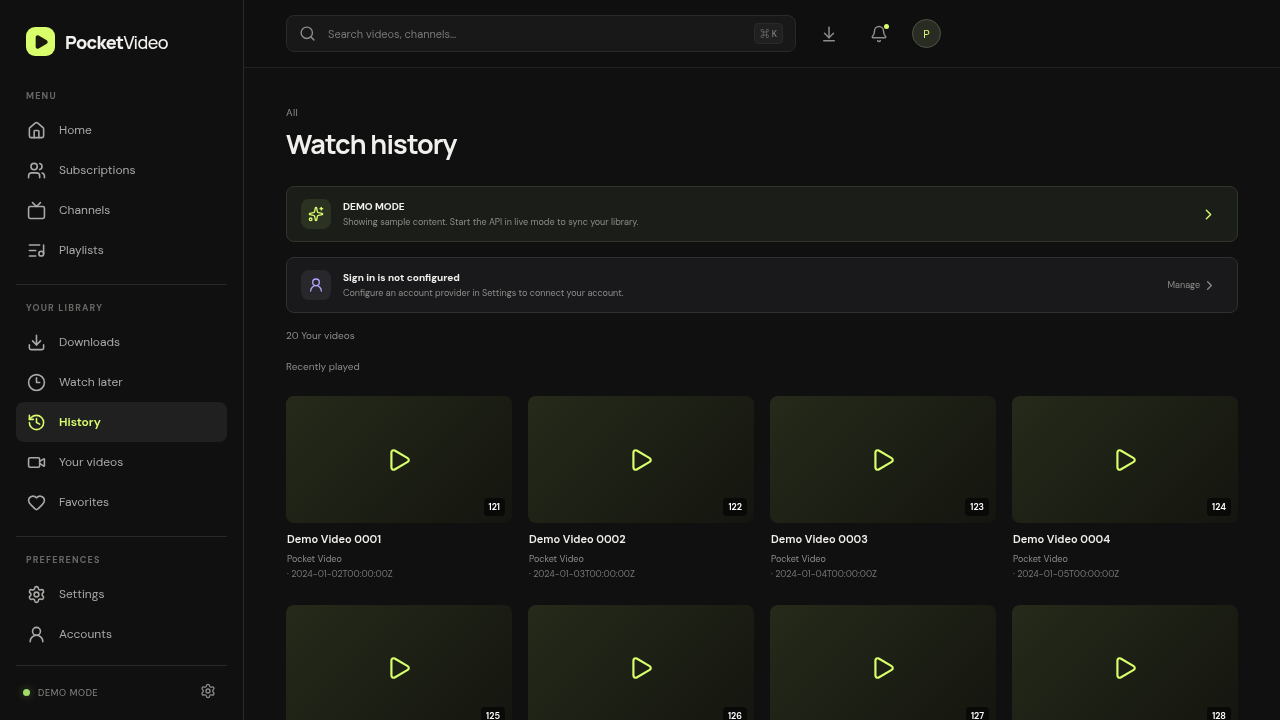
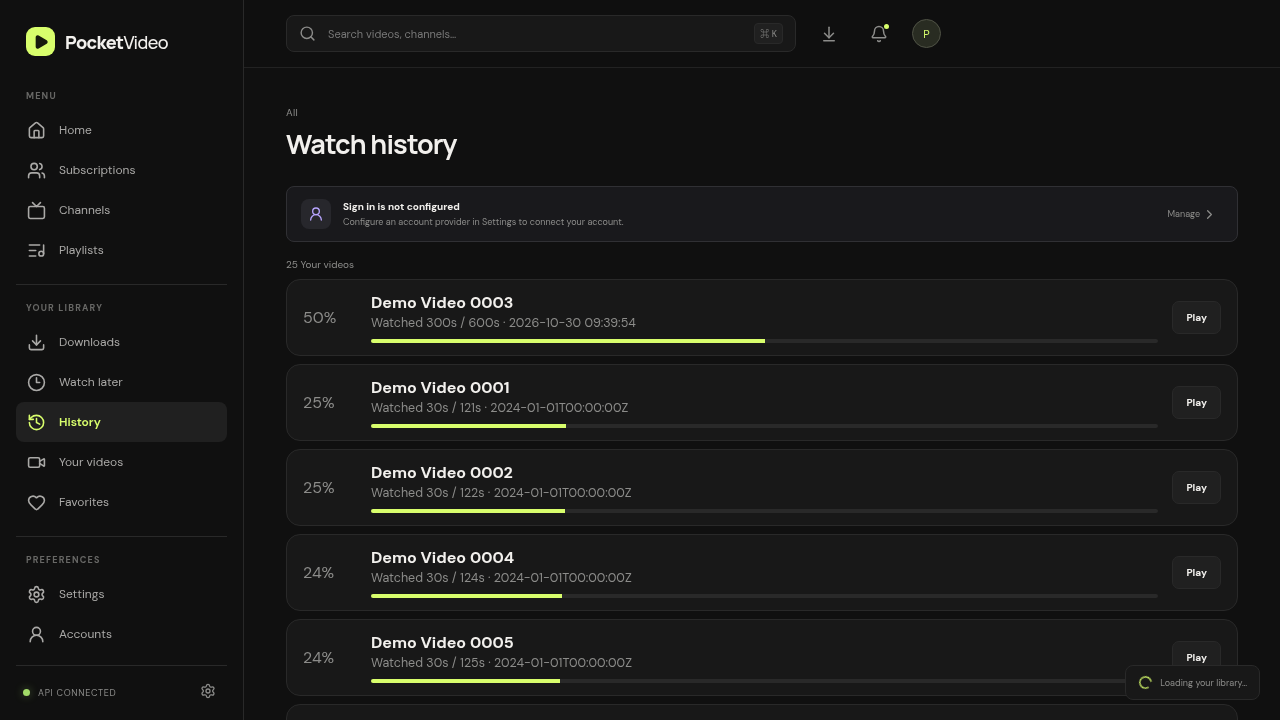
test: refresh history and playlist screenshots

diff --git a/apps/pocket-youtube-video/docs/SCREENSHOTS.md b/apps/pocket-youtube-video/docs/SCREENSHOTS.md
@@ -1,8 +1,8 @@
 # Screenshots
 
-All images were captured from the running Vite application (`http://127.0.0.1:5198`) backed by the live `videod` instance (`http://127.0.0.1:18763`), using headless Chromium through the browser automation target with `page.setViewport` and `page.screenshot`. They are not placeholder images, screenshots of a different project, or copied images.
+All images were captured from the running Vite application (`http://127.0.0.1:5200`) backed by the live `videod` instance (`http://127.0.0.1:18802`), using headless Chromium through the browser automation target with `page.setViewport` and `page.screenshot`. They are not placeholder images, screenshots of a different project, or copied images.
 
-Capture requirements: `POCKET_YOUTUBE_API=http://127.0.0.1:18763 npx vite --host 127.0.0.1 --port 5198 --strictPort`, then a headless Chromium navigation to the corresponding URL followed by `page.screenshot({path})`. The URL carries theme/language/profile/DPI (`?theme=dark&lang=en&profile=desktop&scale=100#home`), so each capture is reproducible. Data loads from the live seeded SQLite DB.
+Capture requirements: `POCKET_YOUTUBE_API=http://127.0.0.1:18802 npx vite --host 127.0.0.1 --port 5200 --strictPort`, then a headless Chromium navigation to the corresponding URL followed by `page.screenshot({path})`. The URL carries theme/language/profile/DPI (`?theme=dark&lang=en&profile=desktop&scale=100#home`), so each capture is reproducible. Data loads from the live seeded SQLite DB.
 
 Verification: all 28 PNGs were checked by reading the PNG IHDR (`width`, `height`), and SHA-256 hashes were compared. Result: **28 files / 28 unique hashes**. Any capture sharing the exact configuration and page state with another was omitted rather than saved as a duplicate; e.g. `home.png` is the en / DPI 100 / 1280×720 dark Home capture; the separate 1280×720 viewport capture uses the Downloads page to avoid identical bytes.
 
@@ -14,12 +14,12 @@ Verification: all 28 PNGs were checked by reading the PNG IHDR (`width`, `height
 | `dpi-150.png` | 1280×720 | Dark | Home / Desktop | 1.5× DPI. |
 | `dpi-200.png` | 1280×720 | Dark | Home / Desktop | 2× DPI. |
 | `dpi-300.png` | 1280×720 | Dark | Home / Desktop | 3× DPI. |
-| `history.png` | 1280×720 | Dark | History / Desktop | Seeded watch history. |
+| `history.png` | 1280×720 | Dark | History / Desktop | Per-video completion percentage, watched/total seconds and resume-enabled play button. |
 | `home.png` | 1280×720 | Dark | Home / Desktop | Six home sections with live seeded data. |
 | `library.png` | 1280×720 | Dark | Library / Desktop | Offline library empty state (fixtures have no files). |
 | `locale-ja.png` | 1280×720 | Dark | Home / Desktop | Japanese UI. |
 | `locale-zh-CN.png` | 1280×720 | Dark | Home / Desktop | Simplified Chinese UI. |
-| `playlists.png` | 1280×720 | Dark | Playlists / Desktop | 20 seeded playlists. |
+| `playlists.png` | 1280×720 | Dark | Playlists / Desktop | 20 synced playlists, create form and clickable detail cards. |
 | `profile-desktop.png` | 480×320 | Dark | Watch later / Desktop | Desktop profile at 480×320. |
 | `profile-handheld.png` | 480×320 | Dark | Home / Handheld | Handheld density/navigation profile. |
 | `profile-tv.png` | 480×320 | Dark | Home / TV | TV text/nav scaling. |
